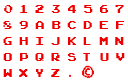
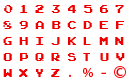
[update]【TextChange】テキスト画像に記号を追加とそれに伴う変更
% - . コピーライト
コピーライトは@で代用

Changed region(s): [[0.625, 0.8, 0.75, 0.975], [0.875, 0.825, 1.0, 0.975], [0.7812, 0.9, 0.8438, 0.925]]

diff --git a/source/Title.h b/source/Title.h
@@ -30,7 +30,7 @@ private:
 		{ 100,550,"1ST BONUS FOR 20000 PTS",eYellow,eMag48 },
 		{ 100,650,"2ND BONUS FOR 70000 PTS",eYellow,eMag48 },
 		{ 100,750,"AND FOR EVERY 70000 PTS",eYellow,eMag48 },
-		{ 100,850,"/ 1981 1995 NAMCO LTD",eWhite,eMag48},
+		{ 100,850,"@ 1981 1995 NAMCO LTD",eWhite,eMag48},
 
 	};
 	int TitleHandle[2];
